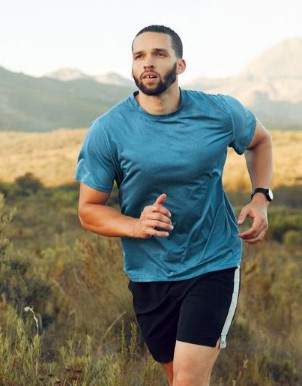
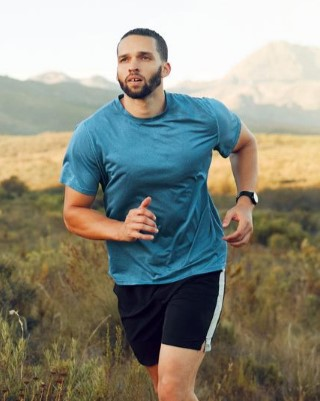
'ruhu

diff --git a/style/styles.css b/style/styles.css
@@ -9,7 +9,7 @@
   font-weight: 400;
   font-style: normal;
   background: rgba(0,0,0);
-  max: width 144px;;
+  max-width 1440px;
 }
 
 /*Shared Style   */
@@ -242,28 +242,40 @@ margin-top: 0;
 
 }
 .run-img img {
-border-radius: -500px;
+margin-right: 30px;
 }
  .img-resize{
-width: 336px;
-height: 312px;
-/* border: 200px solid saddlebrown; */
-/* border-radius:200px; */
+width: 330px;
+height: 310px;
+border-radius: 16px;
+
 } 
 
 .run-h2{
+    margin-bottom: 0;
     font-size: 3rem;
     font-weight: 900;
     color: rgb(255 255 255);
 }
 .run-p{
-    font-size: 0.875rem;
+    margin-top: 15px;
+    font-size: 0.750rem;
     font-weight: 400;
     color: rgba(255, 255, 255, 0.5);
+    
 }
 .run-title{
     margin: 40px 165px 40px 54px;
   
+}
+.run-btn{
+    padding: 16px 50px;
+font-weight: 600;
+font-size: 1.125rem;
+color: rgb(255 255 255);
+background-color: rgb(230, 83, 60);
+border-radius: 50px;
+border: none;
 }
 
 
@@ -358,9 +370,24 @@ display: grid;
         margin-top: 5px;
         font-size: .775rem;
     }
+/* run section  */
+.run{
+    flex-direction: column;
+    width: 100%;
+    margin: auto;
+    padding: auto;
+    margin-top: 50px;
+    padding-bottom: 50px;
+}
+.run-title{
+    width: 295px;
+    margin:20px 0px 20px -50px;
 
 
-
+}
+.run-title p{
+font-size: 0.900rem;
+}
 
 
 }

diff --git a/index.html b/index.html
@@ -88,18 +88,15 @@ Fitness
     Mile Easily
 </h2>
 <p class="run-p">
-    We believe fitness should be accessible to everyone,<br> everywhere, regardless of income or access to a gym. With <br>
+    We believe fitness should be accessible to everyone, everywhere, regardless of income or access to a gym. With 
     hundreds of professional workouts.
 </p>
-<button class="btn-primary">
+<button class="run-btn">
     Join Now
 </button>
     </div>
     <div class="run-img">
-      <div class="run-01">
-        
-
-      </div>  <img class="img-resize" src="images/run.jpg" alt="run a man">
+       <img class="img-resize" src="images/run-1.jpg" alt="run a man">
 
     </div>
 </section>
